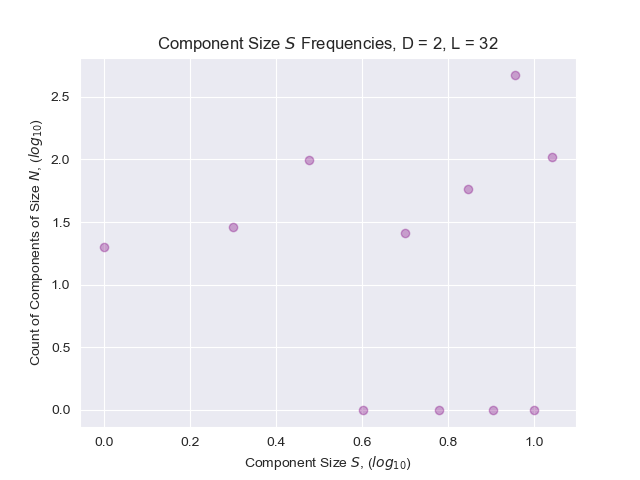
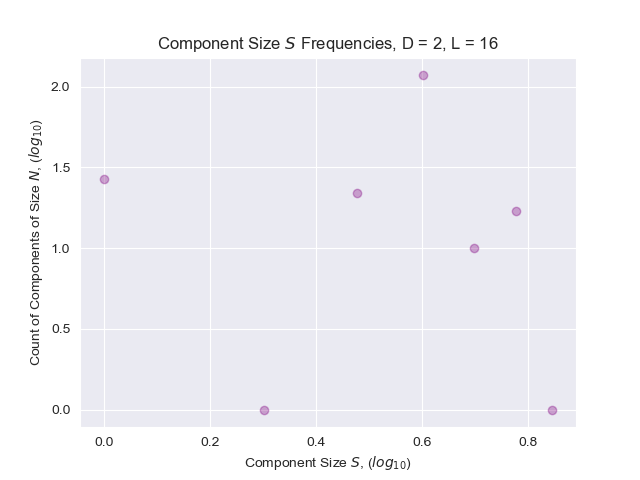
Polished Comments and completed graphing functionality.

diff --git a/hw_07_q3.py b/hw_07_q3.py
@@ -2,9 +2,9 @@
 # -*- coding: utf-8 -*-
 
 """
-Created Oct 2018
+Created Oct, 2018
 File to replicate simulation of a model to determine optimal firebreaks for timber yield.
-Inspiration from Professor Dodds, University of Vermont
+Inspiration from Professor Dodds, University of Vermont.
 @author: Samuel Zonay
 """
 
@@ -32,7 +32,7 @@ import sys
 # =============================================================================
 # ==========================    "KNOB" VARIABLES    ===========================
 # =============================================================================
-L_values = [2,4,16,32] # 2, 32, 64, 128 
+L_values = [16] # 2, 4, 16, 32, 64, 128 
 D_values = [2] # [1,2,"L","L_squared"]
 
 # D2L2records = {} # The dictionary representing the main data structure to record 
@@ -44,9 +44,16 @@ D_values = [2] # [1,2,"L","L_squared"]
 # =============================================================================
 def main(L_values, D_values):
     """
-    fdsa
+    - Function Description:
+        Function takes in a list of values to run the simulation on and processes program calls.
+    - Function Inputs:
+        - L_values: List of L values (lattice perimiter), (type=list).
+        - D_values: List of D values (design parameter), (type=list).
+    - Function Output: 
+        Function has no output.
     """
     print("--- NOW RUNNING SIMULATIONS ---")
+
     # Call to run animation functionality.
     display = True
     logg = True 
@@ -71,13 +78,22 @@ def main(L_values, D_values):
             # We want to inquire more about 
             component_frequency_grapher(display, peak_yield_lattice, D, L, logg)
 
-            yields2trees_added_LIST.append(average_yield2trees_added) # For plotting yields by densities later
+            # For plotting yields by densities later
+            yields2trees_added_LIST.append(average_yield2trees_added) 
         # Now to plot the peak yield curves for this value of D.
         yieldBYdensity_grapher(display, D, yields2trees_added_LIST)
 
 def simulator(D, L):
     """
-    fdsa
+    - Function Description:
+        Function takes in specific D and L values and runs the simulation on each. 
+    - Function Inputs:
+        - D: The L value (lattice perimiter), (type=int).
+        - D_values: The D value (design parameter), (type=int).
+    - Function Output: 
+        Function Outputs the following information for graphing purposes. 
+            - trees_added2lattice: Dictionary of trees added (int) to lattice (numpy matrix). 
+            - average_yield2trees_added: Dictionary of average yield (float) to trees added here (int). 
     """
     # Addressing any issues from type(L) == String.
     if D == "L":
@@ -114,6 +130,7 @@ def simulator(D, L):
 
         trees_added += 1 # Incrementing this here since yield will need to be computed - 
         # - (used for density calculation) to select which tree to add.
+
         for test_tree_index in test_tree_indeces:                                
             # Computing and saving our average forest fire size for this test tree. 
             average_forest_fire_size = cost_calc(spark_probability_lattice, \
@@ -148,10 +165,10 @@ def spark_probability_matrix(index_list):
        Function takes in a list of lattice indeces and returns a matrix of the 
        spark probabilities for each of those indeces. 
     - Function Inputs:
-        - initial_lattice: Initial lattice for which we are going to compute the spark
-        probabilities for.
+        - index_list: List of indeces for which we need to compute the spark
+        probabilities for (list).
     - Function Output: 
-        spark_probability_matrix: Normalized matrix of spark probabilities (numpy 2-D array). 
+        - spark_probability_lattice: Normalized matrix of spark probabilities (numpy matrix). 
     """
     # We will start by adding the test tree index to the array we are curious about. 
     # The returned matrix should be of the same initial lattice size. 
@@ -170,17 +187,17 @@ def spark_probability_matrix(index_list):
 
 def cost_calc(spark_probability_lattice, simulation_lattice, test_tree_index):
     """
-    - Function Description:fdsa
+    - Function Description:
        Function takes in simulation information and returns the average cost calculated when a 
        given test tree is placed in the current simulation lattice. The equation for average forest 
-       fire size (used to compute the cost) is \sum_{i, j} P(i, j), S(i, j), where P represents spark 
+       fire size (used to compute the cost) is $\sum_{i, j} P(i, j) S(i, j)$, where P represents spark 
        probability at location (i, j) and S represents the size of any current component at the same spot.
     - Function Inputs:
-        spark_probability_lattice: Spark probability matrix for this simulation (numpy matrix).
-        simulation_lattice: Current simulation lattice we are testing with (numpy matrix).
-        test_tree_index: Index (list of integers) of index to test putting an additional tree at. 
+        - spark_probability_lattice: Spark probability matrix for this simulation (numpy matrix).
+        - simulation_lattice: Current simulation lattice we are testing with (numpy matrix).
+        - test_tree_index: Index (list of integers) of index to test putting an additional tree at. 
     - Function Output: 
-        calculated_average_cost: The estimated average cost of a fire (with cost here being fire size).
+        - calculated_average_cost: The estimated average cost of a fire (with cost here being fire size).
     """
     # Initializing the variable we are looking to compute. Its a summation so we will find - 
     # it via incrementation. 
@@ -222,14 +239,23 @@ def cost_calc(spark_probability_lattice, simulation_lattice, test_tree_index):
 
 def fix_chosen_index(chosen_index):
     """
-    fdsa Array parser 
-    for manual edits of [0 2] vs [0, 2] error
+    - Function Description:
+       Function ammends an error that occurs when there is only one item remaining in the list of 
+       indeces with no trees. In particular, function changes an array being represented as [0 2]
+       to [0, 2], including given double digits or additional whitespace padding. 
+    - Function Inputs:
+        - chosen_index: String representation of index we want to fix so we can work with. 
+    - Function Output: 
+        - fixed_chosen_index: The updated index that will no longer give the main looping an ValueErrors. 
     """
     items = list(str(chosen_index))
     
+    # Containers incase there are multiple digits to a single numerical. 
     i_value = ""
     j_value = ""
 
+    # Initial settings; note the switch signifying no number has been saved yet (out of two total) - 
+    # - as shown by `number` being set to 1 to start. 
     number = 1
     first_space = 0
     for char in items:
@@ -251,17 +277,32 @@ def fix_chosen_index(chosen_index):
         elif char == "]":
             pass
 
+    # The chosen index is returned with correct forms. 
     fixed_chosen_index = [int(i_value), int(j_value)]
 
     return fixed_chosen_index
 
 def run_animation(display, trees_added2lattice):
     """
-    fdsa
+    - Function Description:
+       Function runs the animate function nested within (to utilize the trees added to lattice matrix 
+       dictionary). 
+    - Function Inputs:
+        - display: Whether or not we want to display graphs to user terminal (Boolean).
+        - trees_added2lattice: A dictionary mapping the count of trees added to the lattice at the addition. 
+    - Function Output: 
+        - Nothing, but if display=True an animation will appear. 
     """
     def animate(frame_index):
         """
-        fdsa
+        - Function Description:
+            Function represents the animate function nested within (to utilize the trees
+            added to the lattice matrix dictionary). During its runtime an animation will process, 
+            with the option for it to print to the user's terminal. 
+        - Function Inputs:
+            - frame_index: the index of the frame to run (int), as required bt matplot Animate. 
+        - Function Output: 
+            - Nothing, but if display=True an animation will appear in the external animation 
         """
         # Internal Function Code.
         simulation_lattice = trees_added2lattice[frame_index] 
@@ -286,33 +327,49 @@ def run_animation(display, trees_added2lattice):
         plt.show()
 
 def lattice_frame_grapher(display, peak_yield_lattice, D, L):
-        """
-        fdsa
-        """
-        Q3a_fig = plt.figure()
-        axes = Q3a_fig.add_subplot(111)
-        axes.set_title("Tree Space at Optimal Yield, Design Parameter $D$ = {D}".format(D=D))
-        axes.set_xlabel("$L$ = {L}".format(L=L))
-        green_patch = mpatches.Patch(color='green', label="tree")
-        brown_patch = mpatches.Patch(color='brown', label="dirt")
-        plt.legend(handles=[green_patch, brown_patch])
+    """
+    - Function Description:
+        Function graphs a lattice of a specified lattice (intended to be used for peak yield lattice). 
+    - Function Inputs:
+        display: Whether or not we want to display graphs to user terminal (Boolean).
+        peak_yield_lattice: Lattice we wish to plot (numpy matrix).
+        D: Current design parameter value (int). 
+        L: Current perimiter size value (int). 
+    - Function Output: 
+        Nothing, but if display=True an animation will appear in the external animation and save
+        user machine.  
+    """
+    Q3a_fig = plt.figure()
+    axes = Q3a_fig.add_subplot(111)
+    axes.set_title("Tree Space at Optimal Yield, Design Parameter $D$ = {D}".format(D=D))
+    axes.set_xlabel("$L$ = {L}".format(L=L))
+    green_patch = mpatches.Patch(color='green', label="tree")
+    brown_patch = mpatches.Patch(color='brown', label="dirt")
+    plt.legend(handles=[green_patch, brown_patch])
 
-        color_map = colors.ListedColormap(['brown', 'green'])
-        plt.imshow(peak_yield_lattice, cmap=color_map)
+    color_map = colors.ListedColormap(['brown', 'green'])
+    plt.imshow(peak_yield_lattice, cmap=color_map)
 
-        plt.savefig("peak_yield_L{L}_D{D}.png".format(L=L, D=D))
+    plt.savefig("peak_yield_L{L}_D{D}.png".format(L=L, D=D))
 
-        if display == True:
-            plt.show()
+    if display == True:
+        plt.show()
 
 def yieldBYdensity_grapher(display, D, yields2trees_added_LIST):
-    """
-    fdsa
+    """    
+    - Function Description:
+        Function graphs yield curves (Y = density - cost, <Y> = density - <cost>) for multiple L values for 
+        a given D value. 
+    - Function Inputs:
+        display: Whether or not we want to display graphs to user terminal (Boolean).
+        D: Current design parameter value (int). 
+        yields2trees_added_LIST: A list of dictionarys of yields to number of trees added. 
+    - Function Output: 
+        Nothing, but if display=True an animation will appear in the external animation and save
+        to user machine.             
     """
     # Plotting the yield curves for each value of D, and identifying (approximately) the - 
-    # - peak yield and density for which peak yield occurs on each
-    # color_map = {2:"green", 32:"yellow", 64:"red", 128:"orange"}
-    # print(L_dictionary_datalist[0])
+    # - peak yield and density for which peak yield occurs on each,
     Q3pb = plt.figure()
     axes = Q3pb.add_subplot(111)
     max_yield2density = {} # To fill and caluclate max yield over all L's to user terminal. 
@@ -359,8 +416,19 @@ def yieldBYdensity_grapher(display, D, yields2trees_added_LIST):
         plt.show()
 
 def component_frequency_grapher(display, peak_yield_lattice, D, L, logg):
-    """
-    fdsa
+    """   
+    - Function Description:
+        Function graphs yield curves (Y = density - cost, <Y> = density - <cost>) for multiple L values for 
+        a given D value. 
+    - Function Inputs:
+        display: Whether or not we want to display graphs to user terminal (Boolean).
+        peak_yield_lattice: Lattice we wish to plot (numpy matrix).
+        D: Current design parameter value (int). 
+        L: Current perimiter size value (int). 
+        logg: Whether or not we want to plot logged graph also (Boolean). 
+    - Function Output: 
+        Nothing, but if display=True an animation will appear in the external animation and save
+        to user machine.             
     """
     # Plotting distributions of tree component size `S` at peak yield. 
     # Calculating the connected components. 
@@ -378,7 +446,6 @@ def component_frequency_grapher(display, peak_yield_lattice, D, L, logg):
 
     freqBYcomponent_size = plt.figure()
     axes = freqBYcomponent_size.add_subplot(111)
-    # color_map = {20:"black", 50:"green", 100:"yellow", 200:"orange", 500:"red",1000:"blue"}
 
     # for L in L2runningAvg_pvals.keys():
     x = list(component_size2count.keys()) # The x axis is the sizes S of the components.
@@ -389,8 +456,7 @@ def component_frequency_grapher(display, peak_yield_lattice, D, L, logg):
     # Labelling and making the plot output look nicer. 
     axes.set_title("Component Size $S$ Frequencies, D = {D}, L = {L}".format(D=D, L=L))
     axes.set_xlabel("Component Size $S$") # , ($log_{10}$)
-    axes.set_ylabel("Count of Components of Size $N$") # , ($log_{10}$)
-    # axes.legend(['$L = 20$','$L = 50$','$L = 100$','$L = 200$','$L = 500$']) # ,'$L = 1000$'
+    axes.set_ylabel("Count of Components of Size $S$") # , ($log_{10}$)
     
     plt.savefig("component_frequency{D}.png".format(D=D))
 
@@ -400,12 +466,10 @@ def component_frequency_grapher(display, peak_yield_lattice, D, L, logg):
     if logg == True:
         freqBYcomponent_size_LOG = plt.figure()
         axes = freqBYcomponent_size_LOG.add_subplot(111)
-        
         axes.scatter(np.log10(x), np.log10(y), color="purple", alpha=0.33)
         axes.set_title("Component Size $S$ Frequencies, D = {D}, L = {L}".format(D=D, L=L))
         axes.set_xlabel("Component Size $S$, ($log_{10}$)")
         axes.set_ylabel("Count of Components of Size $N$, ($log_{10}$)")
-        # axes.legend(['$L = 20$','$L = 50$','$L = 100$','$L = 200$','$L = 500$']) # ,'$L = 1000$'
         plt.savefig("component_frequency_log{D}.png".format(D=D))
         plt.show()
 
@@ -413,13 +477,3 @@ def component_frequency_grapher(display, peak_yield_lattice, D, L, logg):
 # ========================      MAIN LOGIC CALL        ========================
 # =============================================================================
 main(L_values, D_values)
-
-# ========================      SCRAP                  ========================
-
-
-# ========================      Q's/ OTHER                  ===================
-# TO-DO:
-    # Part d) Extra level: Plot size distributions for D = L2 for varying tree densities
-    # ρ = 0.10, 0.20, . . . , 0.90. This will be an effort to reproduce Fig. 3b in [2].
-
-    # save animation imaging to computer.
